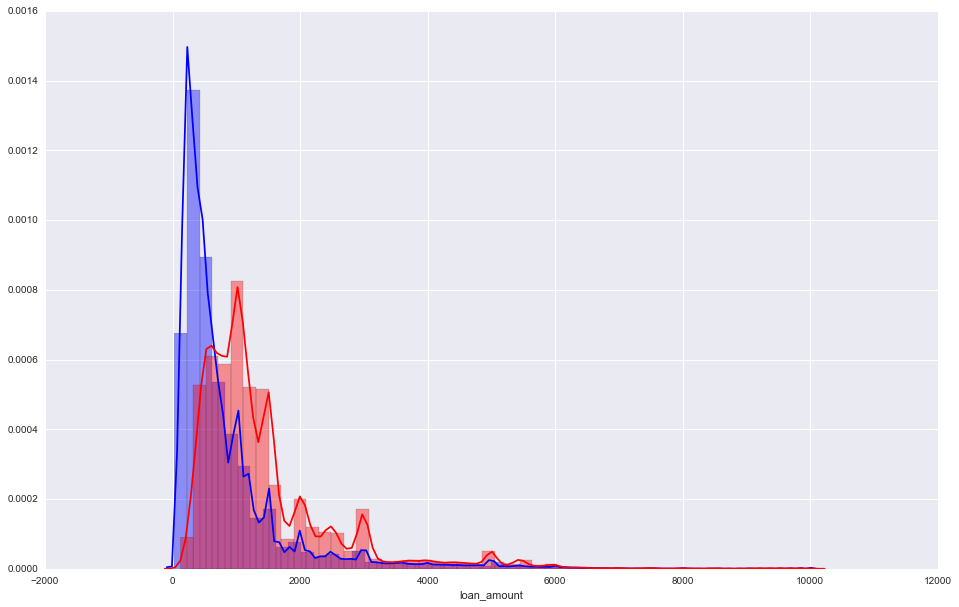
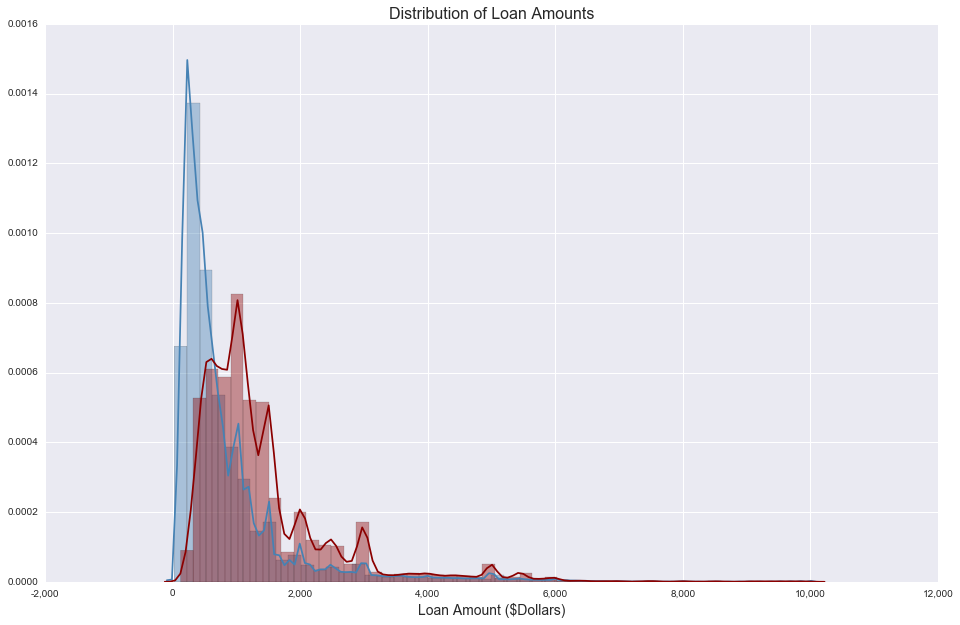
Checking in results code

diff --git a/code/kiva_plotting.py b/code/kiva_plotting.py
@@ -40,6 +40,7 @@ class plot_code(object):
             plt.ylabel(column[1], fontsize=14)
             plt.legend().set_visible(False)
             plt.title('Amount Loaned By ' + column[1], fontsize=16)
+            
             if column[0] =='gender':
                 plt.yticks(range(2), ('Female', 'Male'))
 
@@ -136,6 +137,10 @@ class plot_code(object):
         sns.distplot(self.df[(self.df.target==0) & (self.df.loan_amount <10000)].loan_amount, color = 'steelblue', ax=ax)
         sns.distplot(self.df[(self.df.target==1) & (self.df.loan_amount <10000)].loan_amount, color = 'darkred', ax=ax)
 
+        plt.title('Distribution of Loan Amounts', fontsize=16)
+        plt.xlabel("Loan Amount ($Dollars)", fontsize=14)
+        plt.gca().get_xaxis().set_major_formatter(matplotlib.ticker.FuncFormatter(lambda x, p: format(int(x), ',')))
+
         path = './assets/loan_amount_dist.png'
         plt.savefig(path, bbox_inches='tight')
 
@@ -224,6 +229,13 @@ class plot_code(object):
 
         sns.distplot(self.df[self.df.target==1][column], color = 'steelblue', ax=ax)
         sns.distplot(self.df[self.df.target==0][column], color = 'darkred', ax=ax)
+
+        plt.title('Distribution of Loan Supply', fontsize=16)
+        plt.xlabel("Number of Competing Loans", fontsize=14)
+        plt.gca().get_xaxis().set_major_formatter(matplotlib.ticker.FuncFormatter(lambda x, p: format(int(x), ',')))
+
+        path = './assets/' + column + '_dist.png'
+        plt.savefig(path, bbox_inches='tight')
 
         plt.show()
 
